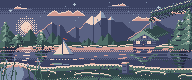
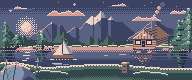
Wallpaper: cleaner scene, wooden cabin in every season, chimney smoke, top-right branch removed; weather located by IP

diff --git a/src/weather.js b/src/weather.js
@@ -1,4 +1,4 @@
-// Today's weather from Open-Meteo (no key), at the browser's location. Cached for an hour; a refusal is remembered for a day.
+// Today's weather from Open-Meteo (no key) at the visitor's approximate location (from their IP, so no permission prompt). Cached for an hour.
 import { useEffect, useState } from 'react'
 
 const KEY = 'desker.weather'
@@ -12,11 +12,9 @@ export const cachedWeather = () => { const w = read(); return w && w.kind && Dat
 let pending
 const load = () => pending ||= fetchWeather().finally(() => { pending = null })
 async function fetchWeather() {
-  const old = read()
-  if (old?.deniedAt && Date.now() - old.deniedAt < 864e5) return null
-  const pos = await new Promise((ok) => navigator.geolocation ? navigator.geolocation.getCurrentPosition(ok, () => ok(null), { timeout: 8000, maximumAge: 36e5 }) : ok(null))
-  if (!pos) { localStorage.setItem(KEY, JSON.stringify({ deniedAt: Date.now() })); return null }
-  const { latitude: la, longitude: lo } = pos.coords
+  const geo = await (await fetch('https://get.geojs.io/v1/ip/geo.json')).json()
+  const la = Number(geo.latitude), lo = Number(geo.longitude)
+  if (!Number.isFinite(la) || !Number.isFinite(lo)) return null
   const r = await fetch(`https://api.open-meteo.com/v1/forecast?latitude=${la.toFixed(2)}&longitude=${lo.toFixed(2)}&daily=weather_code,temperature_2m_max&timezone=auto&forecast_days=1`)
   if (!r.ok) return null
   const d = (await r.json()).daily

diff --git a/art/scene_build.py b/art/scene_build.py
@@ -32,7 +32,10 @@ R = {
     'w_far': ('yoru-0', 'yuki-2', 'hada-1'), 'w_mid': ('yoru-1', 'kori-1', 'yoru-0'), 'w_near': ('yoru-2', 'kori-2', 'yoru-1'), 'glint': ('yuki-3', 'yuki-1', 'hada-0'),
     'sn_hi': ('yuki-1', 'yuki-0', 'hada-0'), 'sn_l': ('yuki-2', 'yuki-1', 'yuki-2'), 'sn_m': ('yuki-3', 'yuki-2', 'yuki-3'), 'sn_s': ('yoru-0', 'yuki-3', 'yoru-0'), 'sn_d': ('yoru-1', 'yoru-0', 'yoru-1'),
     'pine': ('matsu-1', 'matsu-0', 'matsu-1'), 'pine_s': ('matsu-2', 'matsu-1', 'matsu-2'), 'pine_d': ('yoru-2', 'matsu-2', 'yoru-2'),
-    'thatch': ('yoru-0', 'yoru-0', 'yoru-0'), 'thatch_s': ('yoru-1', 'yoru-1', 'yoru-1'), 'wood': ('yoru-0', 'yoru-0', 'yoru-0'), 'wood_s': ('yoru-1', 'yoru-1', 'yoru-1'),
+    'thatch': ('kuri', 'kuri', 'kuri'), 'thatch_s': ('yoru-1', 'yoru-1', 'yoru-1'), 'wood': ('kuri', 'kuri', 'kuri'), 'wood_s': ('yoru-1', 'yoru-1', 'yoru-1'), 'shade': ('yoru-2', 'yoru-2', 'yoru-2'),
+    'log': ('hada-1', 'hada-1', 'hada-1'), 'log_s': ('kuri', 'kuri', 'kuri'), 'wall_d': ('kuri', 'kuri', 'kuri'), 'wall_s': ('yoru-1', 'yoru-1', 'yoru-1'),
+    'wr_hi': ('hada-0', 'hada-0', 'hada-0'), 'wr_l': ('hada-1', 'hada-1', 'hada-1'), 'wr_m': ('kuri', 'kuri', 'kuri'), 'wr_s': ('yoru-1', 'yoru-1', 'yoru-1'),
+    'smoke_l': ('yuki-2', 'yuki-0', 'hada-0'), 'smoke': ('yoru-0', 'yuki-1', 'hada-1'), 'smoke_s': ('yoru-1', 'yuki-2', 'yoru-0'),
     'win': ('hada-0', 'hada-0', 'hada-0'), 'win_g': ('hada-1', 'hada-1', 'hada-1'), 'pool0': ('hada-1', 'yuki-2', 'hada-1'), 'pool1': ('hada-0', 'yuki-1', 'hada-0'),
     'sail': ('yuki-2', 'yuki-0', 'hada-0'), 'sail_s': ('yuki-3', 'yuki-2', 'yuki-3'),
     'tor': ('beni', 'beni', 'beni'), 'tor_s': ('yoru-1', 'yoru-1', 'yoru-1'), 'tor_h': ('hada-1', 'hada-1', 'hada-1'),
@@ -45,8 +48,7 @@ for new, old in (('rf_hi', 'sn_hi'), ('rf_l', 'sn_l'), ('rf_m', 'sn_m'), ('rf_s'
 BASE = dict(R)   # winter
 
 # Seasons recolour the same pixels. Each override is (night, morning, dusk). Winter is BASE.
-MOSS = {'rf_hi': ('matsu-0', 'matsu-0', 'matsu-0'), 'rf_l': ('matsu-0', 'matsu-0', 'matsu-0'), 'rf_m': ('matsu-1', 'matsu-1', 'matsu-1'), 'rf_s': ('matsu-2', 'matsu-2', 'matsu-2'),
-        'pool0': ('hada-1', 'matsu-0', 'hada-1'), 'pool1': ('hada-0', 'yuki-1', 'hada-0')}
+MOSS = {'pool0': ('hada-1', 'matsu-0', 'hada-1'), 'pool1': ('hada-0', 'yuki-1', 'hada-0')}
 GREEN_GROUND = {'sn_hi': ('matsu-0', 'yuki-1', 'hada-0'), 'sn_l': ('matsu-1', 'matsu-0', 'matsu-1'), 'sn_m': ('matsu-2', 'matsu-1', 'matsu-2'), 'sn_s': ('yoru-2', 'matsu-2', 'yoru-1'), 'sn_d': ('yoru-2', 'matsu-2', 'yoru-2'),
                 'cap_hi': ('matsu-0', 'yuki-1', 'hada-0'), 'cap_l': ('matsu-0', 'matsu-0', 'hada-1'), 'cap_s': ('matsu-1', 'matsu-1', 'matsu-1'),
                 'pn_hi': ('matsu-0', 'matsu-0', 'hada-0'), 'pn_l': ('matsu-0', 'matsu-0', 'matsu-0'), 'pn_s': ('matsu-1', 'matsu-1', 'matsu-1'),
@@ -119,7 +121,7 @@ def sky(A):
                 ring = d > rr - .6
                 put(A, x, y, 'moon_s' if ((ring and (x - cx) + (y - cy) > 1) or (x, y) in ((cx + 1, cy + 1), (cx + 2, cy - 1), (cx - 2, cy + 2), (cx + 1, cy + 3))) else 'moon')
     # stars: 1px dots and three 3px plus shapes, kept off the moon and the cloud lanes
-    for _ in range(26):
+    for _ in range(12):
         x, y = rng.randint(2, W - 3), rng.randint(1, 24)
         if math.hypot(x - cx, y - cy) > 16: put(A, x, y, 'star')
     for x, y in ((74, 4), (158, 7), (10, 10), (182, 21)):
@@ -177,7 +179,7 @@ def forest(A):
     for x in range(W):
         for y in range(top[x], 47): put(A, x, y, 'hill')
     g = random.Random(21)
-    for gx, n in ((12, 4), (52, 3), (84, 5), (108, 3), (186, 3)):                  # clumps of three or four, uneven heights, gaps between
+    for gx, n in ((12, 3), (60, 3), (90, 4), (108, 2)):                  # clumps of three or four, uneven heights, gaps between
         for i in range(n):
             x = gx + i * g.randint(3, 6)
             if 118 <= x <= 176: continue
@@ -196,12 +198,12 @@ def lake(A):
     for x, y, w in ((24, 47, 6), (22, 49, 9), (25, 52, 5), (23, 55, 7), (26, 58, 3), (22, 60, 5)):
         for i in range(w): put(A, x + i, y, 'glint')
     g = random.Random(5)
-    for _ in range(34):                                                  # calm surface: sparse 1px ripples
+    for _ in range(12):                                                  # calm surface: sparse 1px ripples
         x, y = g.randint(0, W - 6), g.randint(47, 64)
         if is_(A, x, y, 'w_far', 'w_mid', 'w_near'):
             for i in range(g.randint(3, 7)): put(A, x + i, y, 'w_far' if y > 53 else 'w_mid' if y > 49 else 'w_mid')
 
-REFL = {'sail': 'sail_s', 'sail_s': 'w_near', 'rf_hi': 'rf_l', 'rf_l': 'rf_m', 'rf_m': 'rf_s', 'rf_s': 'w_near', 'cap_hi': 'cap_l', 'cap_l': 'cap_s', 'cap_s': 'w_near', 'pn_hi': 'pn_l', 'pn_l': 'pn_s', 'pn_s': 'pine_s', 'br': 'br_s', 'br_s': 'br_d', 'br_d': 'w_near', 'sn_hi': 'sn_l', 'sn_l': 'sn_m', 'sn_m': 'sn_s', 'sn_s': 'sn_d', 'sn_d': 'w_near', 'thatch': 'thatch_s', 'thatch_s': 'w_near', 'wood': 'wood_s', 'wood_s': 'w_near',
+REFL = {'sail': 'sail_s', 'sail_s': 'w_near', 'rf_hi': 'rf_l', 'rf_l': 'rf_m', 'rf_m': 'rf_s', 'rf_s': 'w_near', 'cap_hi': 'cap_l', 'cap_l': 'cap_s', 'cap_s': 'w_near', 'pn_hi': 'pn_l', 'pn_l': 'pn_s', 'pn_s': 'pine_s', 'br': 'br_s', 'br_s': 'br_d', 'br_d': 'w_near', 'sn_hi': 'sn_l', 'sn_l': 'sn_m', 'sn_m': 'sn_s', 'sn_s': 'sn_d', 'sn_d': 'w_near', 'thatch': 'thatch_s', 'thatch_s': 'w_near', 'wood': 'wood_s', 'wood_s': 'w_near', 'wr_hi': 'wr_l', 'wr_l': 'wr_m', 'wr_m': 'wr_s', 'wr_s': 'w_near', 'shade': 'w_near', 'log': 'log_s', 'log_s': 'w_near', 'wall_d': 'w_near', 'wall_s': 'w_near', 'smoke_l': 'smoke', 'smoke': 'smoke_s', 'smoke_s': 'w_near',
         'win': 'win_g', 'win_g': 'win_g', 'tor': 'tor_s', 'tor_s': 'thatch_s', 'tor_h': 'tor', 'pine': 'pine_s', 'pine_s': 'pine_d', 'pine_d': 'w_near', 'stone_l': 'stone_s', 'stone_s': 'stone_d'}
 def reflect(A, L, base, shear=1):
     """Mirror an object layer about its waterline: one ramp step darker, 1px ripple gaps, a gentle sideways wobble."""
@@ -263,40 +265,42 @@ def pine(L, cx, base, h, seed, w_scale=1.0):
 
 HOUSE_X, HOUSE_Y = 133, 46     # front-left corner of the front wall, waterline of the far shore
 def house(L):
-    """A small log cabin on the far shore: low gabled roof under a snow load, log walls, two lit windows, a stone chimney with a thread of smoke."""
+    """A plain wooden cabin on the far shore, the same in every season: shingled roof, plank gable, log walls, two lit windows, a stone chimney with smoke."""
     x0, yb, W1, HW, HG, DX, DY = HOUSE_X, HOUSE_Y, 22, 7, 10, 12, -4
     ax, ay = x0 + W1 // 2, yb - HW - HG
     ex, ey = x0 + W1 + 2, yb - HW
     def P(pts, r): poly(L, pts, r)
-    P([(x0 + W1, yb - HW), (x0 + W1 + DX, yb - HW + DY), (x0 + W1 + DX, yb + DY), (x0 + W1, yb)], 'wood_s')      # right wall, in shade
-    for y in range(yb - HW + 1, yb, 2):                                                                          # log courses on the side wall
-        for x in range(x0 + W1, x0 + W1 + DX + 1): put(L, x, y + round((x - x0 - W1) * DY / DX), 'thatch_s')
-    P([(ax, ay), (ax + DX, ay + DY), (ex + DX, ey + DY), (ex, ey)], 'thatch_s')                                    # side roof: shingles...
-    P([(ax, ay), (ax + DX, ay + DY), (ex + DX, ey + DY - 3), (ex - 2, ey - 3)], 'rf_s')                           # ...under a shaded snow load
-    for i in range(DX + 1):
-        put(L, ax + i, ay + round(i * DY / DX), 'rf_m')
-        y = ey - 3 - round(i * 4 / DX) + (1 if i % 3 == 0 else 0); put(L, ex - 2 + i, y, 'rf_m'); put(L, ex - 2 + i, y + 1, 'rf_s')
-    for i in range(0, DX + 1, 2): put(L, ex + i, ey - round(i * 4 / DX) - 1, 'wood_s')                          # eave shadow
-    rect(L, x0, yb - HW, x0 + W1, yb, 'wood')                                                                    # front wall: horizontal logs
-    for y in range(yb - HW + 1, yb + 1, 2): rect(L, x0, y, x0 + W1, y, 'wood_s')
-    rect(L, x0, yb - HW, x0, yb, 'wood_s')
-    for wx in (x0 + 3, x0 + 14):                                                                                 # two lit windows with frames
-        rect(L, wx - 1, yb - 6, wx + 4, yb - 2, 'wood_s'); rect(L, wx, yb - 5, wx + 3, yb - 3, 'win'); put(L, wx + 1, yb - 4, 'win_g')
-    rect(L, x0 + 9, yb - 5, x0 + 11, yb, 'wood_s'); put(L, x0 + 10, yb - 2, 'win_g')                             # door
-    P([(x0 - 3, yb - HW), (x0 + W1 + 3, yb - HW), (ax, ay)], 'rf_l')                                             # front gable: snow...
-    P([(x0 + 2, yb - HW), (x0 + W1 - 2, yb - HW), (ax, ay + 5)], 'wood')                                          # ...with planks showing inside
-    for yy in range(ay + 6, yb - HW):
-        for x in range(x0 + 3, x0 + W1 - 2):
-            if x % 3 == 0 and L[yy, x] == IDX['wood']: L[yy, x] = IDX['wood_s']
-    rect(L, ax - 1, ay + 7, ax + 1, ay + 8, 'win')                                                               # a small gable window
-    for i in range(HG):                                                                                          # snow on the rafters: lit left, cool right
-        y = ay + i; hw = (i * (W1 // 2 + 3)) // HG
-        put(L, ax - hw, y, 'rf_hi'); put(L, ax - hw + 1, y, 'rf_hi' if i > 2 else 'rf_l'); put(L, ax + hw, y, 'rf_m'); put(L, ax + hw - 1, y, 'rf_s')
-    for x in range(x0 - 3, x0 + W1 + 4):
-        if x % 2 == 0: put(L, x, yb - HW + 1, 'rf_l' if x < ax else 'rf_m')
-    cx_ = ax + 6; cy = ay + round(6 * DY / DX)                                                                   # chimney on the ridge
-    rect(L, cx_, cy - 5, cx_ + 2, cy + 1, 'stone_s'); rect(L, cx_, cy - 5, cx_, cy + 1, 'stone_l'); rect(L, cx_ - 1, cy - 6, cx_ + 3, cy - 6, 'rf_l')
-    for k, (dx, dy) in enumerate(((1, -8), (2, -10), (1, -12), (2, -14))): put(L, cx_ + dx, cy + dy, 'cloud_l' if k % 2 else 'cloud')
+    P([(x0 + W1, yb - HW), (x0 + W1 + DX, yb - HW + DY), (x0 + W1 + DX, yb + DY), (x0 + W1, yb)], 'wall_d')      # side wall, in shade
+    for y in range(yb - HW + 1, yb, 2):
+        for x in range(x0 + W1, x0 + W1 + DX + 1): put(L, x, y + round((x - x0 - W1) * DY / DX), 'wall_s')
+    P([(ax, ay), (ax + DX, ay + DY), (ex + DX, ey + DY), (ex, ey)], 'wr_m')                                         # side roof plane
+    for k in range(1, 13, 3):                                                                                       # shingle courses, parallel to the ridge
+        for i in range(DX + 1):
+            x, y = ax + i + k * 0, ay + round(i * DY / DX) + k
+            if is_(L, x, y, 'wr_m'): put(L, x, y, 'wr_s')
+    for i in range(DX + 1): put(L, ax + i, ay + round(i * DY / DX), 'wr_l')                                         # lit ridge
+    rect(L, x0, yb - HW, x0 + W1, yb, 'log')                                                                       # front wall: logs
+    for y in range(yb - HW + 1, yb + 1, 2): rect(L, x0, y, x0 + W1, y, 'log_s')
+    rect(L, x0, yb - HW, x0, yb, 'log_s')
+    for wx in (x0 + 3, x0 + 14):                                                                                    # two lit windows
+        rect(L, wx - 1, yb - 6, wx + 4, yb - 2, 'shade'); rect(L, wx, yb - 5, wx + 3, yb - 3, 'win'); put(L, wx + 1, yb - 4, 'win_g')
+    rect(L, x0 + 9, yb - 5, x0 + 11, yb, 'shade'); put(L, x0 + 10, yb - 2, 'win_g')                                 # door
+    P([(x0 - 2, yb - HW), (x0 + W1 + 2, yb - HW), (ax, ay)], 'log')                                                # front gable: planks
+    for yy in range(ay + 1, yb - HW):
+        for x in range(x0 - 2, x0 + W1 + 3):
+            if x % 3 == 0 and L[yy, x] == IDX['log']: L[yy, x] = IDX['log_s']
+    for i in range(HG + 1):                                                                                         # bargeboards: lit left, shaded right
+        y = ay + i; hw = (i * (W1 // 2 + 2)) // HG
+        put(L, ax - hw, y, 'wr_hi'); put(L, ax - hw + 1, y, 'wr_l'); put(L, ax + hw, y, 'wr_s'); put(L, ax + hw - 1, y, 'wr_m')
+    rect(L, x0 - 2, yb - HW, x0 + W1 + 2, yb - HW, 'wr_s')                                                          # eave shadow
+    rect(L, ax - 1, ay + 5, ax + 1, ay + 6, 'win')                                                                  # gable window
+    cx_ = ax + 7; cy = ay + round(7 * DY / DX)                                                                      # chimney on the roof
+    rect(L, cx_, cy - 6, cx_ + 3, cy + 1, 'stone_s'); rect(L, cx_, cy - 6, cx_, cy + 1, 'stone_l'); rect(L, cx_ - 1, cy - 7, cx_ + 4, cy - 7, 'stone_l')
+    for k, (dx, dy, sz) in enumerate(((1, -9, 3), (2, -13, 3), (4, -17, 4), (6, -21, 4), (9, -25, 5))):             # smoke: puffs that widen and drift right
+        for j in range(sz):
+            for i in range(sz):
+                if sz > 2 and (i in (0, sz - 1)) and (j in (0, sz - 1)): continue                                  # round the corners
+                put(L, cx_ + dx + i, cy + dy + j, 'smoke_s' if k > 3 else 'smoke_l' if (i + j) < 2 else 'smoke')
     return ax, ay
 
 def pool(A):
@@ -336,17 +340,11 @@ def bank(A):
             r = 'sn_l' if d < 5 else 'sn_m' if d < 12 or (d < 14 and (x + y) % 2 == 0) else 'sn_l'
             put(A, x, y, r)
         put(A, x, b, 'sn_hi'); put(A, x, b + 1, 'sn_hi' if x % 3 else 'sn_l')
-        if (x // 6) % 2: put(A, x, b + 5, 'sn_s')                                                          # wet shadow at the waterline
     # drifts: 1px highlight on the lit crest, a shaded lee below it
-    for cx, cy, w in ((40, 72, 30), (92, 75, 36), (150, 73, 30), (8, 77, 22), (186, 77, 16)):
+    for cx, cy, w in ((50, 73, 34), (150, 74, 34)):
         for x in range(cx - w // 2, cx + w // 2 + 1):
             t = (x - cx) / (w / 2); yy = cy - round(2.5 * (1 - t * t)) - (1 if t < 0 else 0)
             put(A, x, yy, 'sn_hi'); put(A, x, yy + 1, 'sn_l'); put(A, x + 1, yy + 2, 'sn_m'); put(A, x + 2, yy + 3, 'sn_s' if x % 2 else 'sn_m')
-    for _ in range(90):                                                                                  # wind-packed sparkles
-        x, y = g.randint(0, W - 1), g.randint(BANK(0) + 6, H - 1)
-        if is_(A, x, y, 'sn_l', 'sn_m'): put(A, x, y, 'sn_hi' if g.random() < .5 else 'sn_m')
-    for i, (x, y) in enumerate(((98, 78), (95, 75), (99, 72), (96, 69), (100, 67), (104, 66), (108, 66), (112, 66), (116, 68))):   # footprints: a trail to the post
-        put(A, x, y, 'sn_s'); put(A, x + 1, y, 'sn_s'); put(A, x, y + 1, 'sn_d' if i % 2 == 0 else 'sn_s')
 
 # ---------------------------------------------------------------- the post the avatar perches on (feet land on its top row)
 AV_X, AV_Y = 114, 43
@@ -371,11 +369,10 @@ def rock_and_reeds(A):
         if x % 3: put(A, x, y0 + 2, 'cap_l' if x < 22 else 'cap_s')
     for y in range(70, 78): put(A, 8 + (y % 3), y, 'stone_s') if y % 2 else None                           # cracks
     g = random.Random(3)
-    for i, (x, h, lean) in enumerate(((3, 17, 1), (7, 12, -1), (11, 19, 1), (15, 10, 0), (30, 13, -1), (34, 18, 1), (38, 11, 0), (42, 15, -1), (46, 9, 1), (1, 9, 0))):
+    for i, (x, h, lean) in enumerate(((3, 17, 1), (8, 12, -1), (13, 15, 1), (34, 18, 1), (40, 12, -1))):
         for j in range(h):
             xx = x + (lean * j) // 5; yy = 79 - j
             put(A, xx, yy, 'reed' if i % 2 else 'reed_s')
-            if j > 3 and g.random() < .25: put(A, xx + (1 if lean >= 0 else -1), yy, 'reed_s')
         tx = x + (lean * h) // 5
         for k in range(3): put(A, tx, 79 - h - k, 'reed_h'); put(A, tx + (1 if k == 1 else 0), 79 - h - k, 'reed_h')
         put(A, tx, 79 - h - 3, 'cap_l')
@@ -412,7 +409,7 @@ def build(season='winter'):
     for L in (ho, p3, p4, p5, p1, p2): stamp(A, L)
     pool(A)
     to = new(); boat(to, 62, 58); reflect(A, to, 58); stamp(A, to); boat_rings(A, 62, 58)
-    bank(A); post(A); rock_and_reeds(A); branch(A)
+    bank(A); post(A); rock_and_reeds(A)
     return A
 
 SHIMMER = [[25, 51, 6], [23, 54, 8], [24, 57, 5]]       # [x, y, width] dashes on the moon's path that slide 1px at 2 fps
